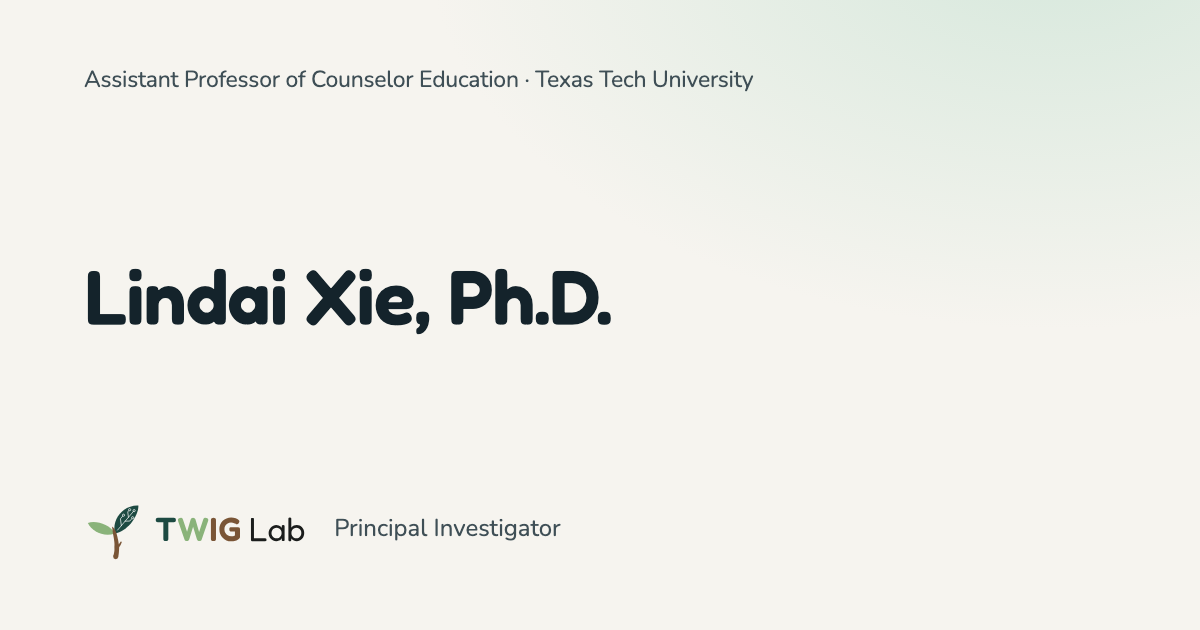
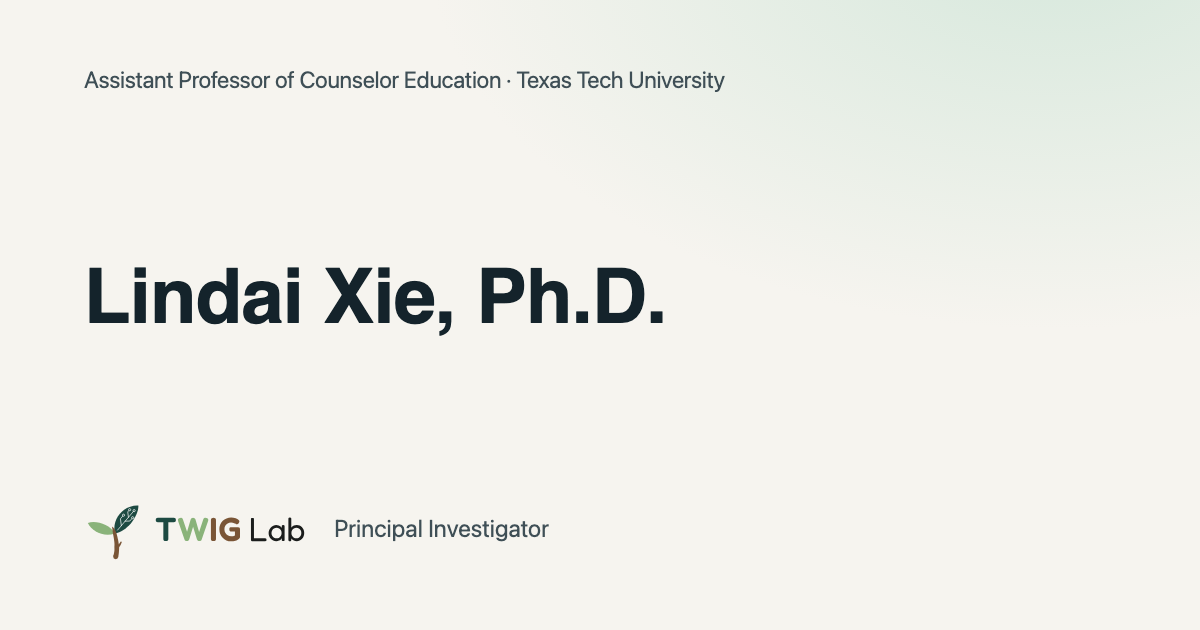
People: PI bio no longer repeats the title line

Changed region(s): [[0.0617, 0.4222, 0.555, 0.5429], [0.0617, 0.0905, 0.6475, 0.1508], [0.2775, 0.8143, 0.4625, 0.8746]]

diff --git a/people.html b/people.html
@@ -66,7 +66,7 @@
         <h3 class="display-3"><a href="https://www.depts.ttu.edu/education/our-people/Faculty/lindai_xie.php" target="_blank" rel="noopener">Lindai Xie, Ph.D.<span class="sr-only"> (opens in a new tab)</span></a></h3>
         <p class="pi-title">Assistant Professor of Counselor Education</p>
         <p class="pi-aff">Department of Educational Psychology, Leadership, &amp; Counseling · College of Education · Texas Tech University</p>
-        <p class="pi-bio">Lindai Xie is an Assistant Professor of Counselor Education at Texas Tech University. She earned her Ph.D. in Counselor Education and Supervision and her M.Ed. in Counselor Education (College Counseling and Student Affairs) from Virginia Commonwealth University, where she also served as a Graduate Assistant and Adjunct Professor. Her research focuses on college student well-being, especially posttraumatic growth and protective factors among sexual assault survivors and the mental health of international students; ethical AI integration in higher education and counselor education; and research integrity and data quality.</p>
+        <p class="pi-bio">Dr. Xie earned her Ph.D. in Counselor Education and Supervision and her M.Ed. in Counselor Education (College Counseling and Student Affairs) from Virginia Commonwealth University, where she also served as a Graduate Assistant and Adjunct Professor. Her research focuses on college student well-being, especially posttraumatic growth and protective factors among sexual assault survivors and the mental health of international students; ethical AI integration in higher education and counselor education; and research integrity and data quality.</p>
         <ul class="pi-links" role="list"><li><a href="mailto:lindxie@ttu.edu">Email<span class="sr-only">: </span><span class="link-sub">lindxie@ttu.edu</span></a></li><li><a href="https://scholar.google.com/citations?user=f-J_XOkAAAAJ&amp;hl=en" target="_blank" rel="noopener">Google Scholar<span class="sr-only"> (opens in a new tab)</span><span class="chev" aria-hidden="true">›</span></a></li><li><a href="https://www.depts.ttu.edu/education/our-people/Faculty/lindai_xie.php" target="_blank" rel="noopener">TTU Profile<span class="sr-only"> (opens in a new tab)</span><span class="chev" aria-hidden="true">›</span></a></li><li><a href="https://orcid.org/0000-0002-2652-449X" target="_blank" rel="noopener">ORCID<span class="sr-only"> (opens in a new tab)</span><span class="chev" aria-hidden="true">›</span></a></li></ul>
       </div>
     </article>

diff --git a/people-zh.html b/people-zh.html
@@ -65,7 +65,7 @@
         <h3 class="display-3"><a href="https://www.depts.ttu.edu/education/our-people/Faculty/lindai_xie.php" target="_blank" rel="noopener">Lindai Xie, Ph.D.<span class="sr-only"> （在新标签页打开）</span></a></h3>
         <p class="pi-title">咨询师教育助理教授</p>
         <p class="pi-aff">德州理工大学 · 教育学院 · 教育心理学、领导力与咨询系</p>
-        <p class="pi-bio">Lindai Xie 是德州理工大学咨询师教育助理教授。她在弗吉尼亚联邦大学获得咨询师教育与督导博士学位，以及咨询师教育（大学咨询与学生事务方向）教育学硕士学位，并曾在该校担任研究生助理和兼职教授。她的研究聚焦于大学生福祉，尤其是性侵幸存者的创伤后成长与保护性因素，以及国际学生的心理健康；人工智能在高等教育和咨询师教育中的伦理整合；以及研究诚信与数据质量。</p>
+        <p class="pi-bio">Xie 博士在弗吉尼亚联邦大学获得咨询师教育与督导博士学位，以及咨询师教育（大学咨询与学生事务方向）教育学硕士学位，并曾在该校担任研究生助理和兼职教授。她的研究聚焦于大学生福祉，尤其是性侵幸存者的创伤后成长与保护性因素，以及国际学生的心理健康；人工智能在高等教育和咨询师教育中的伦理整合；以及研究诚信与数据质量。</p>
         <ul class="pi-links" role="list"><li><a href="mailto:lindxie@ttu.edu">邮箱<span class="sr-only">: </span><span class="link-sub">lindxie@ttu.edu</span></a></li><li><a href="https://scholar.google.com/citations?user=f-J_XOkAAAAJ&amp;hl=en" target="_blank" rel="noopener">Google Scholar<span class="sr-only"> （在新标签页打开）</span><span class="chev" aria-hidden="true">›</span></a></li><li><a href="https://www.depts.ttu.edu/education/our-people/Faculty/lindai_xie.php" target="_blank" rel="noopener">德州理工主页<span class="sr-only"> （在新标签页打开）</span><span class="chev" aria-hidden="true">›</span></a></li><li><a href="https://orcid.org/0000-0002-2652-449X" target="_blank" rel="noopener">ORCID<span class="sr-only"> （在新标签页打开）</span><span class="chev" aria-hidden="true">›</span></a></li></ul>
       </div>
     </article>
